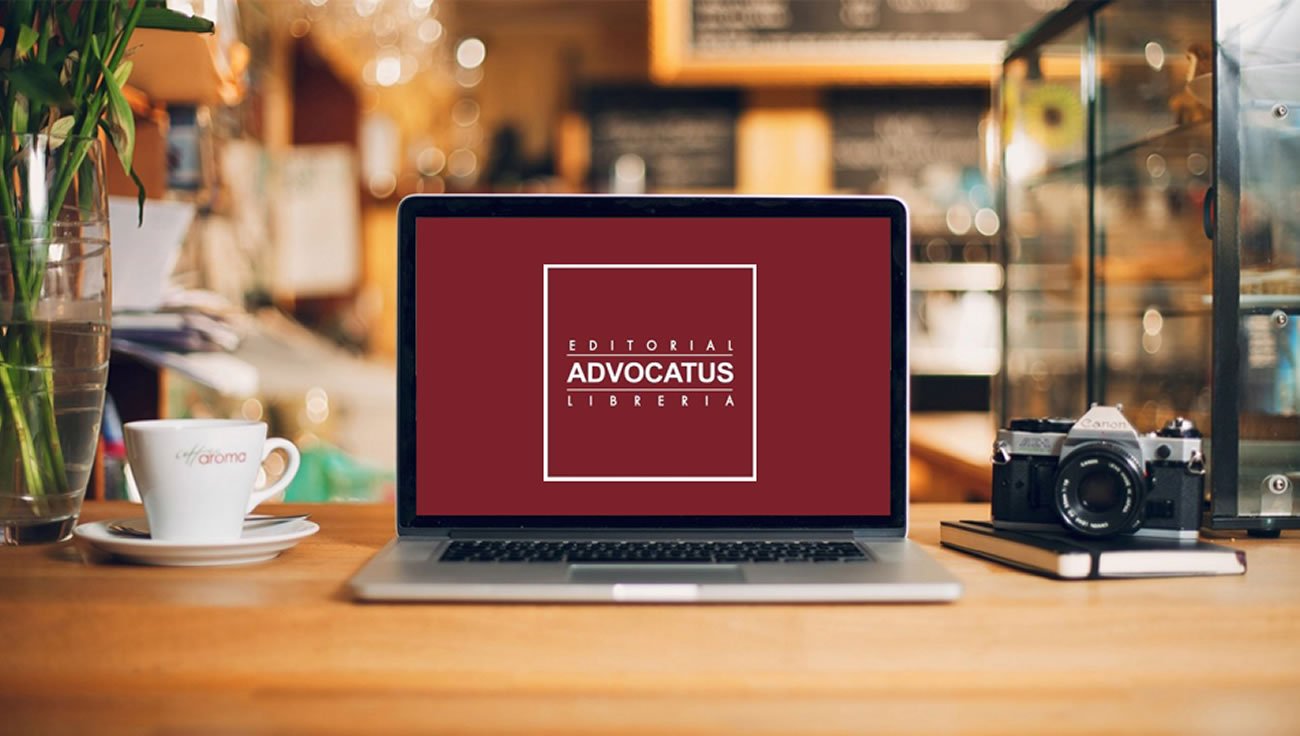
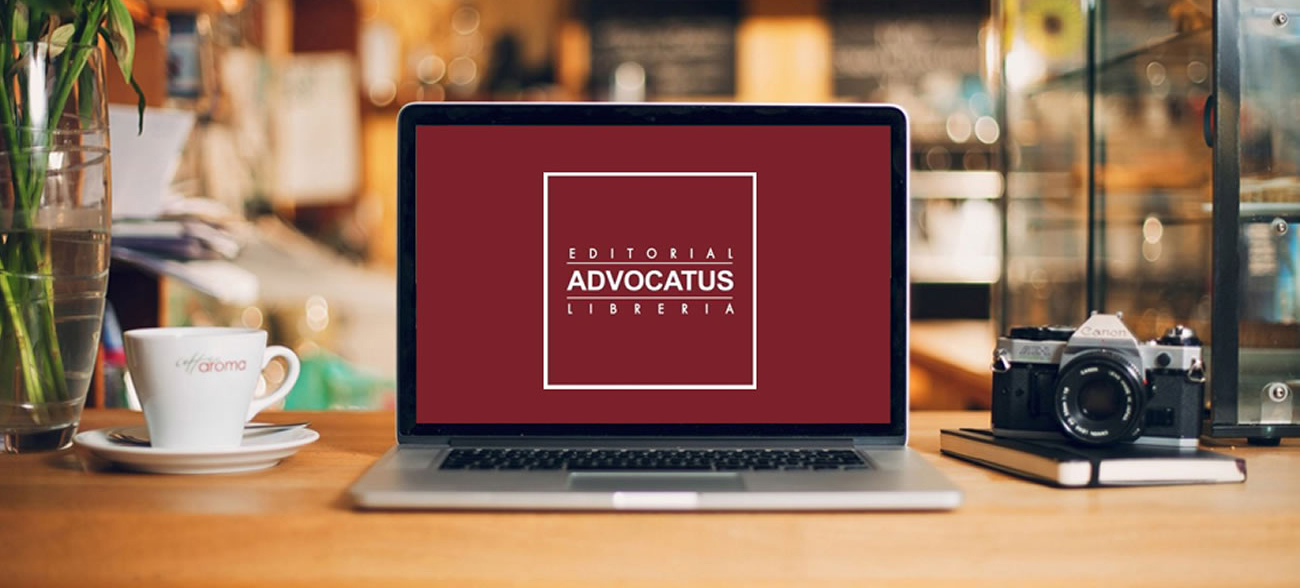
Slider Intro + Flechas Slider Promos

diff --git a/css/estilos.css b/css/estilos.css
@@ -405,9 +405,12 @@ span#text-lost-msg {
     line-height: 16px;
     text-decoration: none !important;
     -webkit-transition: all 0.3s ease-in-out;
-   -moz-transition: all 0.3s ease-in-out;
-   -o-transition: all 0.3s ease-in-out;
-   transition: all 0.3s ease-in-out;
+    -moz-transition: all 0.3s ease-in-out;
+    -o-transition: all 0.3s ease-in-out;
+    transition: all 0.3s ease-in-out;
+    position: absolute;
+    z-index: 9998;
+    right: 15px;
 }
 
 .descargar-catalogo:hover {
@@ -463,6 +466,11 @@ span#text-lost-msg {
     min-height: 40px;
     padding: 10px 15px 10px !important;
     border-radius: 0px;
+}
+
+.carousel-inner > .item > img {
+    width: 100%;
+    max-width: unset !important;
 }
     
 #productos {

diff --git a/index.php b/index.php
@@ -29,17 +29,49 @@
 
 	<?php include 'php/header.php'; ?>
 
-	<!-- PORTADA -->
-	<header class="portada home">
-	<div class="container-full">
-		<div class="row noMargin">
-		<div class="col-lg-12">
-			<a class="descargar-catalogo pull-right" href="#">Catálogo de Productos</a>
-		</div>
-		</div>
-	</div>
-	</header>
-	<!-- /.PORTADA -->
+      <!-- PORTADA -->
+      <header class="">
+        <div class="container-full">
+          <div class="row noMargin">
+            <div class="col-lg-12  noPadding noMargin">
+                <a class="descargar-catalogo pull-right" href="#">Catálogo de Productos</a>
+                <!-- SLIDER INTRO -->
+                <div class="container-full noMargin">
+                <div class="row noMargin">
+                  <div class="col-sm-12 noPadding noMargin">
+                  <div id="intro" class="carousel slide noPadding noMargin" data-ride="carousel">
+                    <!-- Wrapper for slides -->
+                    <div class="carousel-inner">
+                    <div class="item active">
+                      <img src="./img/home/portada-home.jpg" alt="">
+                    </div>
+                    <div class="item">
+                      <img src="./img/home/portada-home.jpg" alt="">
+                    </div>
+                    <div class="item">
+                      <img src="./img/home/portada-home.jpg" alt="">
+                    </div>
+                    </div>
+                    <!-- Left and right controls -->
+                    <a class="left carousel-control" href="#intro" data-slide="prev">
+                    <span class="glyphicon glyphicon-chevron-left"></span>
+                    <span class="sr-only">Anterior</span>
+                    </a>
+                    <a class="right carousel-control" href="#intro" data-slide="next">
+                    <span class="glyphicon glyphicon-chevron-right"></span>
+                    <span class="sr-only">Siguiente</span>
+                    </a>
+                  </div>
+                  </div>
+                </div>
+                </div>
+                <!-- /.SLIDER INTRO -->
+            </div>
+          </div>
+        </div>
+      </header>
+      <!-- /.PORTADA -->
+	  
 	<!-- Buscador -->
 	<div id="buscador-portada">
 		<div class="row noMargin">
@@ -256,11 +288,11 @@
 			</div>
 			</div>
 			<!-- Left and right controls -->
-			<a class="left carousel-control" href="#myCarousel" data-slide="prev">
+			<a class="left carousel-control" href="#promos" data-slide="prev">
 			<span class="glyphicon glyphicon-chevron-left"></span>
 			<span class="sr-only">Anterior</span>
 			</a>
-			<a class="right carousel-control" href="#myCarousel" data-slide="next">
+			<a class="right carousel-control" href="#promos" data-slide="next">
 			<span class="glyphicon glyphicon-chevron-right"></span>
 			<span class="sr-only">Siguiente</span>
 			</a>
